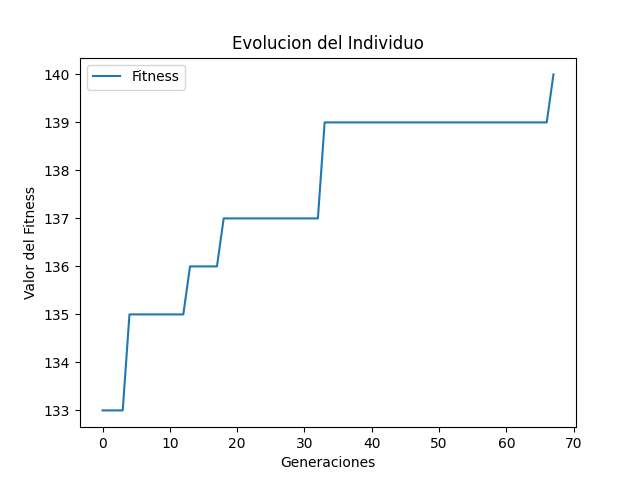
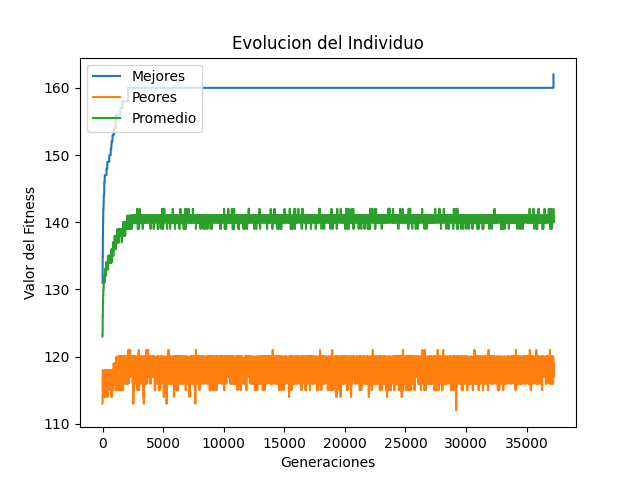
metricas

diff --git a/models/Play.py b/models/Play.py
@@ -101,12 +101,17 @@ class Play:
 
         resolver.setDisabled(True)
         mejores = []
+        peores = []
+        promedios = []
         soluciones = self.inicializacion()
         soluciones = self.verificar(soluciones)
         soluciones.sort(key=lambda x: x.fitness)
-        mejor = self.validar(soluciones, tablero)
+        mejor, peor, promedio = self.validar(soluciones)
+        mejores.append(mejor.getFitness())
+        peores.append(peor.getFitness())
+        promedios.append(promedio)
 
-        cont = 0
+        cont = 1
         while mejor.getFitness() != 162:
             seleccionados = self.seleccion(soluciones)
             cruza = self.cruza(seleccionados)
@@ -114,9 +119,13 @@ class Play:
             mutacion = self.verificar(mutacion)
             soluciones = self.poda(soluciones, mutacion)
             soluciones.sort(key=lambda x: x.fitness)
-            mejor = self.validar(soluciones, tablero)
+            mejor, peor, promedio = self.validar(soluciones)
             print(mejor.getFitness())
+            print(peor.getFitness())
+            print(promedio)
             mejores.append(mejor.getFitness())
+            peores.append(peor.getFitness())
+            promedios.append(promedio)
             cont += 1
             print(cont)
 
@@ -128,15 +137,19 @@ class Play:
                     tablero.item(i, j).setForeground(QBrush(QColor(0, 255, 0)))
                     indice += 1
 
-        self.graficar(mejores, cont)
+        self.graficar(mejores, cont, peores, promedios)
         nuevo.setDisabled(False)
 
-    def validar(self, soluciones, tablero):
+    def validar(self, soluciones):
 
         mejor = soluciones[-1]
+        peor = soluciones[0]
+
+        m = sum(p.getFitness() for p in soluciones)
+        promedio = int(m/len(soluciones))
         print("\n", mejor.getGenes())
 
-        return mejor
+        return mejor, peor, promedio
 
     def inicializacion(self):
 
@@ -247,12 +260,14 @@ class Play:
 
         return soluciones
 
-    def graficar(self, finales, cont):
+    def graficar(self, finales, cont, peores, promedios):
 
         epoca = range(cont)
 
         plt.subplot()
-        plt.plot(epoca, finales, label='Fitness')
+        plt.plot(epoca, finales, label='Mejores')
+        plt.plot(epoca, peores, label='Peores')
+        plt.plot(epoca, promedios, label='Promedio')
         plt.ylabel("Valor del Fitness")
         plt.xlabel("Generaciones")
         plt.title("Evolucion del Individuo")
